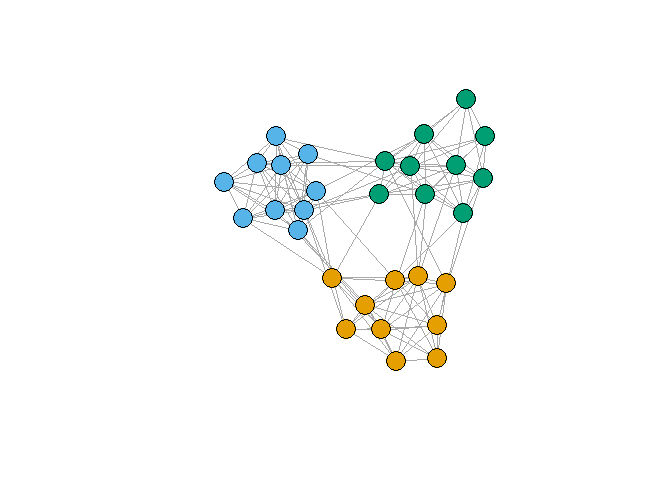
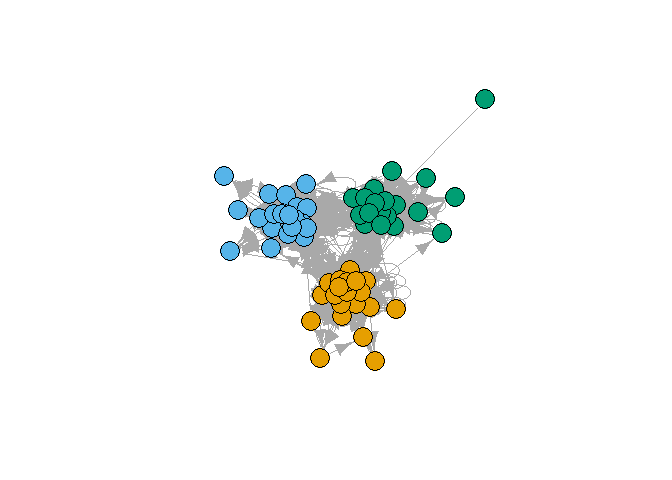
Update documentation

Changed region(s): [[0.3125, 0.1875, 0.75, 0.7812]]

diff --git a/README.md b/README.md
@@ -50,20 +50,20 @@ library(dcsbm)
 #>     sbm
 
 # Generate graph by a planted partition model and estimate an sbm.
-g <- sample_ppm(30, c=0.9, k=10, B=3)
-g <- simplify(g); g <- delete.vertices(g, degree(g) == 0)
-m <- sbm(g)
-#>   |                                                               |                                                       |   0%  [ 30 -> 20 blocks ]  |                                                               |==                                                     |   3%  |                                                               |====                                                   |   7%  |                                                               |======                                                 |  10%  |                                                               |=======                                                |  13%  |                                                               |=========                                              |  17%  |                                                               |===========                                            |  20%  |                                                               |=============                                          |  23%  |                                                               |===============                                        |  27%  |                                                               |================                                       |  30%  |                                                               |==================                                     |  33%  |                                                               |====================                                   |  37%  |                                                               |======================                                 |  40%  |                                                               |========================                               |  43%  |                                                               |==========================                             |  47%  |                                                               |============================                           |  50%  |                                                               |=============================                          |  53%  |                                                               |===============================                        |  57%  |                                                               |=================================                      |  60%  |                                                               |===================================                    |  63%  |                                                               |=====================================                  |  67%  |                                                               |======================================                 |  70%  |                                                               |========================================               |  73%  |                                                               |==========================================             |  77%  |                                                               |============================================           |  80%  |                                                               |==============================================         |  83%  |                                                               |================================================       |  87%  |                                                               |==================================================     |  90%  |                                                               |===================================================    |  93%  |                                                               |=====================================================  |  97%  |                                                               |=======================================================| 100%
-#>   |                                                               |                                                       |   0%  [ 20 -> 13 blocks ]  |                                                               |===                                                    |   5%  |                                                               |======                                                 |  10%  |                                                               |========                                               |  15%  |                                                               |===========                                            |  20%  |                                                               |==============                                         |  25%  |                                                               |================                                       |  30%  |                                                               |===================                                    |  35%  |                                                               |======================                                 |  40%  |                                                               |=========================                              |  45%  |                                                               |============================                           |  50%  |                                                               |==============================                         |  55%  |                                                               |=================================                      |  60%  |                                                               |====================================                   |  65%  |                                                               |======================================                 |  70%  |                                                               |=========================================              |  75%  |                                                               |============================================           |  80%  |                                                               |===============================================        |  85%  |                                                               |==================================================     |  90%  |                                                               |====================================================   |  95%  |                                                               |=======================================================| 100%
-#>   |                                                                |                                                        |   0%  [ 13 -> 9 blocks ]  |                                                                |====                                                    |   8%  |                                                                |=========                                               |  15%  |                                                                |=============                                           |  23%  |                                                                |=================                                       |  31%  |                                                                |======================                                  |  38%  |                                                                |==========================                              |  46%  |                                                                |==============================                          |  54%  |                                                                |==================================                      |  62%  |                                                                |=======================================                 |  69%  |                                                                |===========================================             |  77%  |                                                                |===============================================         |  85%  |                                                                |====================================================    |  92%  |                                                                |========================================================| 100%
-#>   |                                                                 |                                                         |   0%  [ 9 -> 6 blocks ]  |                                                                 |======                                                   |  11%  |                                                                 |=============                                            |  22%  |                                                                 |===================                                      |  33%  |                                                                 |=========================                                |  44%  |                                                                 |================================                         |  56%  |                                                                 |======================================                   |  67%  |                                                                 |============================================             |  78%  |                                                                 |===================================================      |  89%  |                                                                 |=========================================================| 100%
-#>   |                                                                 |                                                         |   0%  [ 6 -> 4 blocks ]  |                                                                 |==========                                               |  17%  |                                                                 |===================                                      |  33%  |                                                                 |============================                             |  50%  |                                                                 |======================================                   |  67%  |                                                                 |================================================         |  83%  |                                                                 |=========================================================| 100%
-#>   |                                                                 |                                                         |   0%  [ 4 -> 3 blocks ]  |                                                                 |==============                                           |  25%  |                                                                 |============================                             |  50%  |                                                                 |===========================================              |  75%  |                                                                 |=========================================================| 100%
+g <- sample_dcppm(60, c=0.95, k=20, B=3, k_coef=1.5, directed=TRUE, loops=TRUE)
+m <- sbm(g, degree_correction=TRUE, n.sweeps=5)
+#>   |                                                               |                                                       |   0%  [ 60 -> 40 blocks ]  |                                                               |=                                                      |   2%  |                                                               |==                                                     |   3%  |                                                               |===                                                    |   5%  |                                                               |====                                                   |   7%  |                                                               |=====                                                  |   8%  |                                                               |======                                                 |  10%  |                                                               |======                                                 |  12%  |                                                               |=======                                                |  13%  |                                                               |========                                               |  15%  |                                                               |=========                                              |  17%  |                                                               |==========                                             |  18%  |                                                               |===========                                            |  20%  |                                                               |============                                           |  22%  |                                                               |=============                                          |  23%  |                                                               |==============                                         |  25%  |                                                               |===============                                        |  27%  |                                                               |================                                       |  28%  |                                                               |================                                       |  30%  |                                                               |=================                                      |  32%  |                                                               |==================                                     |  33%  |                                                               |===================                                    |  35%  |                                                               |====================                                   |  37%  |                                                               |=====================                                  |  38%  |                                                               |======================                                 |  40%  |                                                               |=======================                                |  42%  |                                                               |========================                               |  43%  |                                                               |=========================                              |  45%  |                                                               |==========================                             |  47%  |                                                               |===========================                            |  48%  |                                                               |============================                           |  50%  |                                                               |============================                           |  52%  |                                                               |=============================                          |  53%  |                                                               |==============================                         |  55%  |                                                               |===============================                        |  57%  |                                                               |================================                       |  58%  |                                                               |=================================                      |  60%  |                                                               |==================================                     |  62%  |                                                               |===================================                    |  63%  |                                                               |====================================                   |  65%  |                                                               |=====================================                  |  67%  |                                                               |======================================                 |  68%  |                                                               |======================================                 |  70%  |                                                               |=======================================                |  72%  |                                                               |========================================               |  73%  |                                                               |=========================================              |  75%  |                                                               |==========================================             |  77%  |                                                               |===========================================            |  78%  |                                                               |============================================           |  80%  |                                                               |=============================================          |  82%  |                                                               |==============================================         |  83%  |                                                               |===============================================        |  85%  |                                                               |================================================       |  87%  |                                                               |=================================================      |  88%  |                                                               |==================================================     |  90%  |                                                               |==================================================     |  92%  |                                                               |===================================================    |  93%  |                                                               |====================================================   |  95%  |                                                               |=====================================================  |  97%  |                                                               |====================================================== |  98%  |                                                               |=======================================================| 100%
+#>   |                                                               |                                                       |   0%  [ 40 -> 27 blocks ]  |                                                               |=                                                      |   2%  |                                                               |===                                                    |   5%  |                                                               |====                                                   |   8%  |                                                               |======                                                 |  10%  |                                                               |=======                                                |  12%  |                                                               |========                                               |  15%  |                                                               |==========                                             |  18%  |                                                               |===========                                            |  20%  |                                                               |============                                           |  22%  |                                                               |==============                                         |  25%  |                                                               |===============                                        |  28%  |                                                               |================                                       |  30%  |                                                               |==================                                     |  32%  |                                                               |===================                                    |  35%  |                                                               |=====================                                  |  38%  |                                                               |======================                                 |  40%  |                                                               |=======================                                |  42%  |                                                               |=========================                              |  45%  |                                                               |==========================                             |  48%  |                                                               |============================                           |  50%  |                                                               |=============================                          |  52%  |                                                               |==============================                         |  55%  |                                                               |================================                       |  58%  |                                                               |=================================                      |  60%  |                                                               |==================================                     |  62%  |                                                               |====================================                   |  65%  |                                                               |=====================================                  |  68%  |                                                               |======================================                 |  70%  |                                                               |========================================               |  72%  |                                                               |=========================================              |  75%  |                                                               |===========================================            |  78%  |                                                               |============================================           |  80%  |                                                               |=============================================          |  82%  |                                                               |===============================================        |  85%  |                                                               |================================================       |  88%  |                                                               |==================================================     |  90%  |                                                               |===================================================    |  92%  |                                                               |====================================================   |  95%  |                                                               |====================================================== |  98%  |                                                               |=======================================================| 100%
+#>   |                                                               |                                                       |   0%  [ 27 -> 18 blocks ]  |                                                               |==                                                     |   4%  |                                                               |====                                                   |   7%  |                                                               |======                                                 |  11%  |                                                               |========                                               |  15%  |                                                               |==========                                             |  19%  |                                                               |============                                           |  22%  |                                                               |==============                                         |  26%  |                                                               |================                                       |  30%  |                                                               |==================                                     |  33%  |                                                               |====================                                   |  37%  |                                                               |======================                                 |  41%  |                                                               |========================                               |  44%  |                                                               |==========================                             |  48%  |                                                               |=============================                          |  52%  |                                                               |===============================                        |  56%  |                                                               |=================================                      |  59%  |                                                               |===================================                    |  63%  |                                                               |=====================================                  |  67%  |                                                               |=======================================                |  70%  |                                                               |=========================================              |  74%  |                                                               |===========================================            |  78%  |                                                               |=============================================          |  81%  |                                                               |===============================================        |  85%  |                                                               |=================================================      |  89%  |                                                               |===================================================    |  93%  |                                                               |=====================================================  |  96%  |                                                               |=======================================================| 100%
+#>   |                                                               |                                                       |   0%  [ 18 -> 12 blocks ]  |                                                               |===                                                    |   6%  |                                                               |======                                                 |  11%  |                                                               |=========                                              |  17%  |                                                               |============                                           |  22%  |                                                               |===============                                        |  28%  |                                                               |==================                                     |  33%  |                                                               |=====================                                  |  39%  |                                                               |========================                               |  44%  |                                                               |============================                           |  50%  |                                                               |===============================                        |  56%  |                                                               |==================================                     |  61%  |                                                               |=====================================                  |  67%  |                                                               |========================================               |  72%  |                                                               |===========================================            |  78%  |                                                               |==============================================         |  83%  |                                                               |=================================================      |  89%  |                                                               |====================================================   |  94%  |                                                               |=======================================================| 100%
+#>   |                                                                |                                                        |   0%  [ 12 -> 8 blocks ]  |                                                                |=====                                                   |   8%  |                                                                |=========                                               |  17%  |                                                                |==============                                          |  25%  |                                                                |===================                                     |  33%  |                                                                |=======================                                 |  42%  |                                                                |============================                            |  50%  |                                                                |=================================                       |  58%  |                                                                |=====================================                   |  67%  |                                                                |==========================================              |  75%  |                                                                |===============================================         |  83%  |                                                                |===================================================     |  92%  |                                                                |========================================================| 100%
+#>   |                                                                 |                                                         |   0%  [ 8 -> 5 blocks ]  |                                                                 |=======                                                  |  12%  |                                                                 |==============                                           |  25%  |                                                                 |=====================                                    |  38%  |                                                                 |============================                             |  50%  |                                                                 |====================================                     |  62%  |                                                                 |===========================================              |  75%  |                                                                 |==================================================       |  88%  |                                                                 |=========================================================| 100%
+#>   |                                                                 |                                                         |   0%  [ 5 -> 3 blocks ]  |                                                                 |===========                                              |  20%  |                                                                 |=======================                                  |  40%  |                                                                 |==================================                       |  60%  |                                                                 |==============================================           |  80%  |                                                                 |=========================================================| 100%
 #>   |                                                                 |                                                         |   0%  [ 3 -> 2 blocks ]  |                                                                 |===================                                      |  33%  |                                                                 |======================================                   |  67%  |                                                                 |=========================================================| 100%
 #>   |                                                                 |                                                         |   0%  [ 2 -> 1 blocks ]  |                                                                 |============================                             |  50%  |                                                                 |=========================================================| 100%
 
 # Plot result for 3 blocks.
-plot(g, vertex.color = m$partition[[7]], vertex.label = NA)
+plot(g, vertex.color = m$partition[[8]], vertex.label = NA)
 ```
 
 <img src="man/figures/README-example-1.png" width="66%" />
